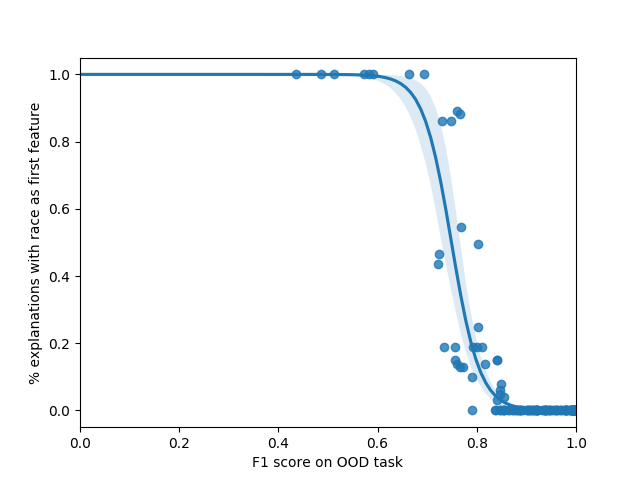
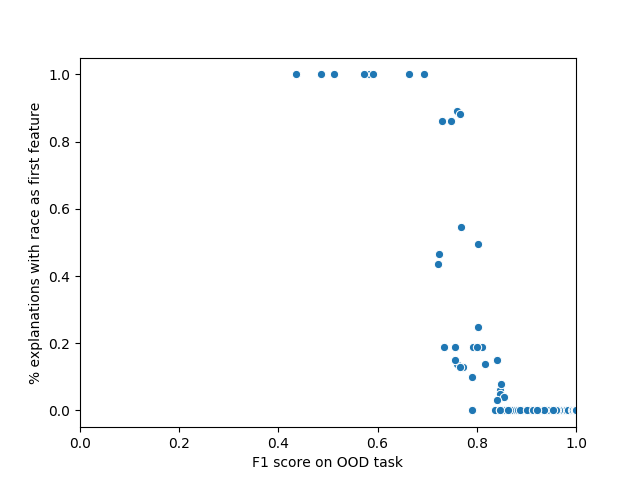
update

Changed region(s): [[0.125, 0.125, 0.9062, 0.875]]

diff --git a/analyze_threshold.py b/analyze_threshold.py
@@ -26,7 +26,7 @@ for trial in np.unique(df['trial']):
 	pct_second = relevant_runs['pct_occur_second'].values[0]
 	pct_third = relevant_runs['pct_occur_third'].values[0]
 
-	f1 = roc_auc_score(y, yhat)
+	f1 = f1_score(y, yhat)
 
 	f1s.append(f1)
 	fsts.append(pct_first)
@@ -40,9 +40,8 @@ ax = plt.axes()
 plt.ylim(-.05,1.05)
 plt.xlim(0,1)
 
-plt.xlabel("AUC score on OOD task")
+plt.xlabel("F1 score on OOD task")
 plt.ylabel("% explanations with race as first feature")
 
-sns.regplot(f1s, fsts, logistic=True, ax=ax)
-
-plt.savefig("shap_auc_first.png")
+sns.scatterplot(f1s, fsts, ax=ax)
+plt.savefig("shap_f1_first.png")
